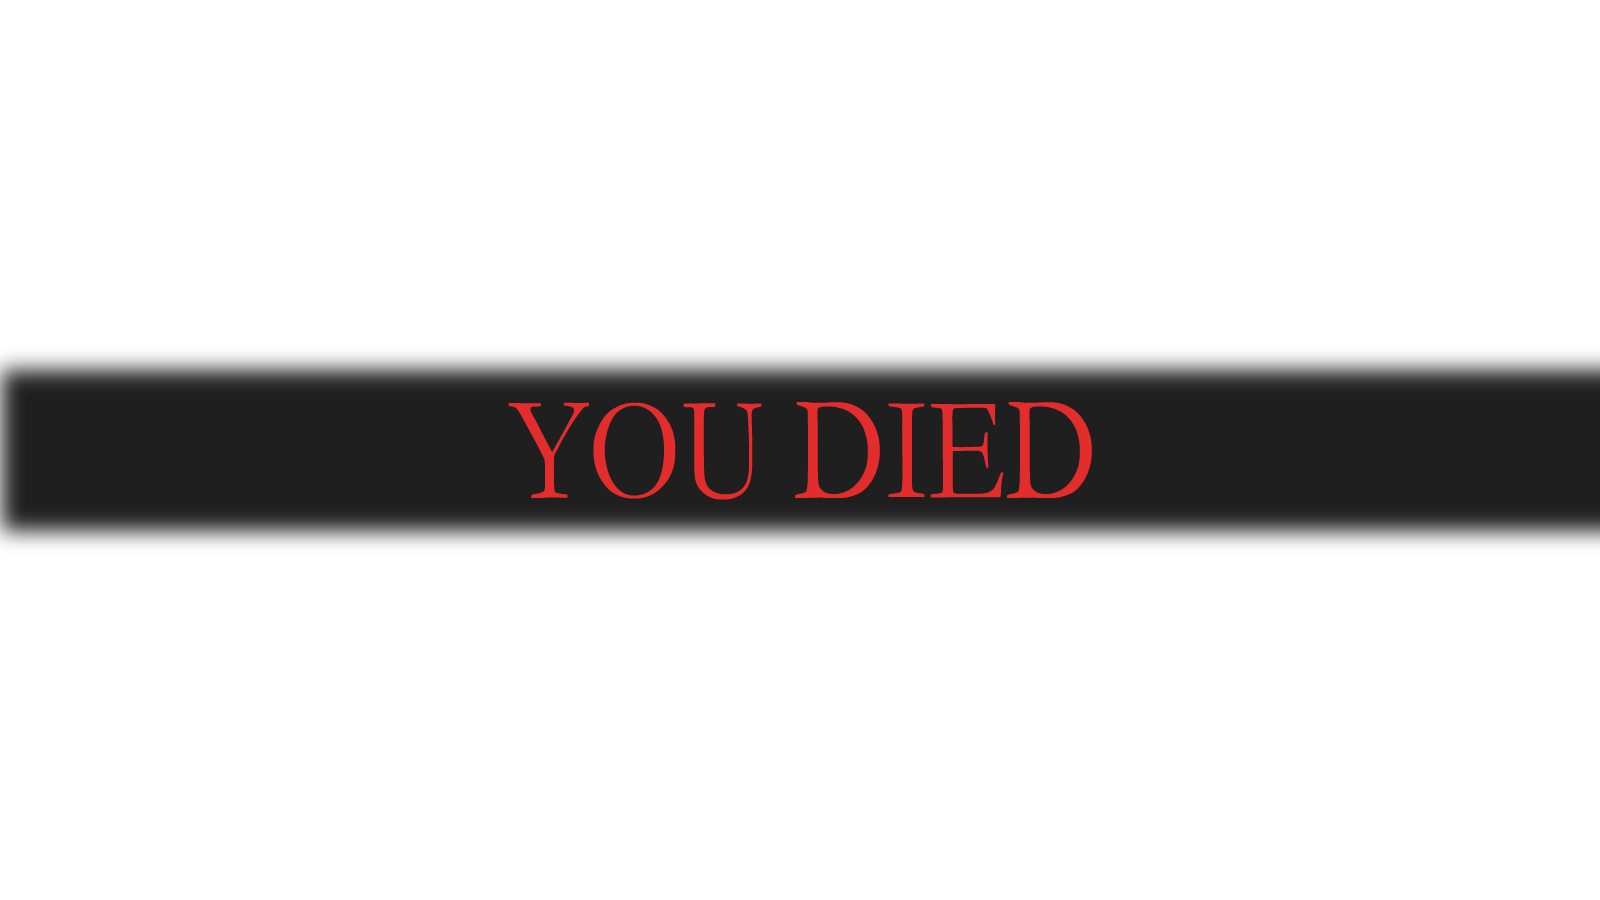
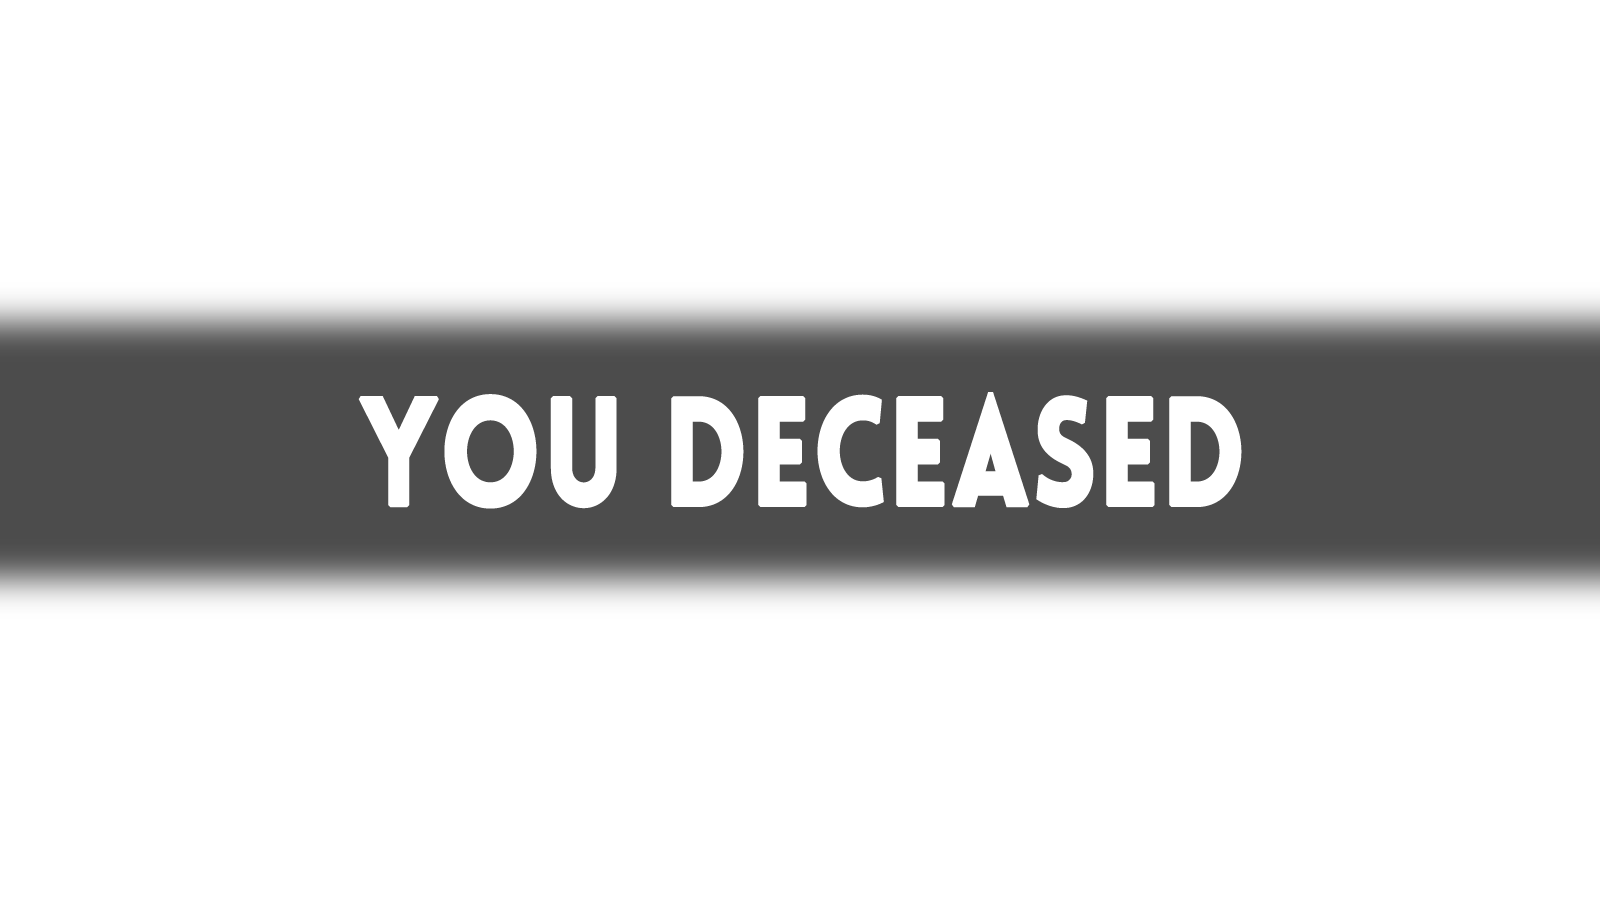
Updated UI Assets to consolidate font style.
^

diff --git a/core/src/com/totlc/Actors/traps/SpikeTrap.java b/core/src/com/totlc/Actors/traps/SpikeTrap.java
@@ -85,12 +85,10 @@ public class SpikeTrap extends ATrap {
     @Override
     public void draw(Batch batch, float alpha) {
         if (isActive()){
-            System.out.println("SPIKES OUT");
             batch.draw(trapAnimation.getKeyFrame(getAnimationTime(), false), getX(), getY());
         } else {
             batch.draw(trapTextureAtlas.getRegions().get(0), getX(), getY());
             if(this.reverse){
-                System.out.println("RETRACT");
                 batch.draw(trapReverseAnimation.getKeyFrame(getAnimationTime(), false), getX(), getY());
             }
         }
